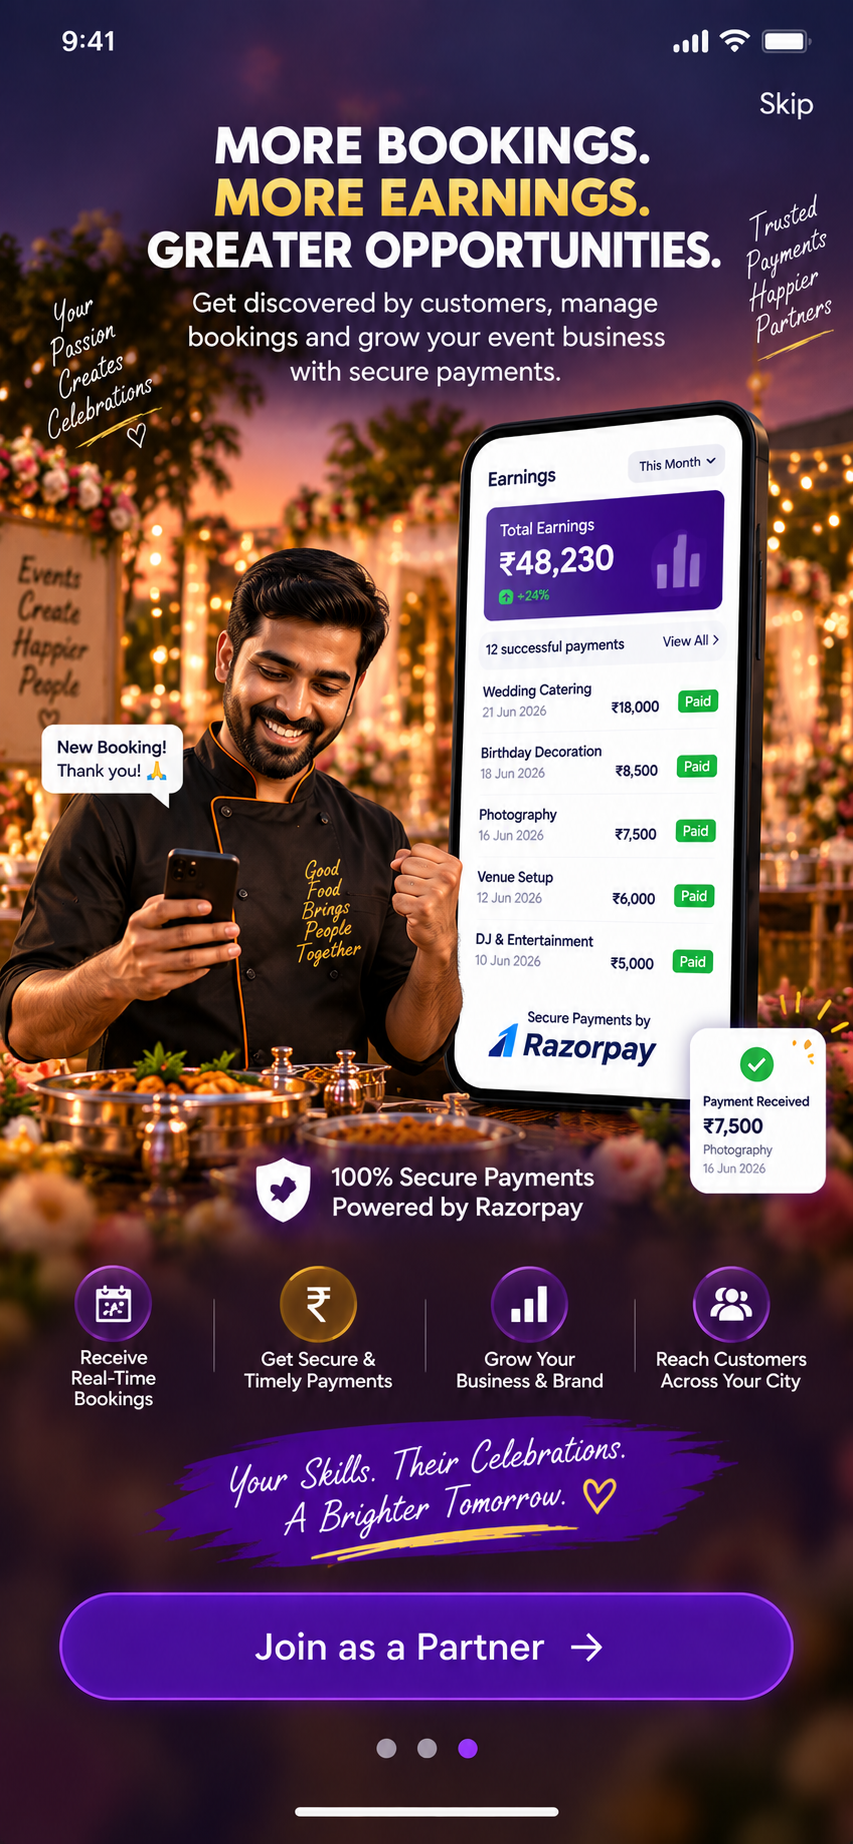
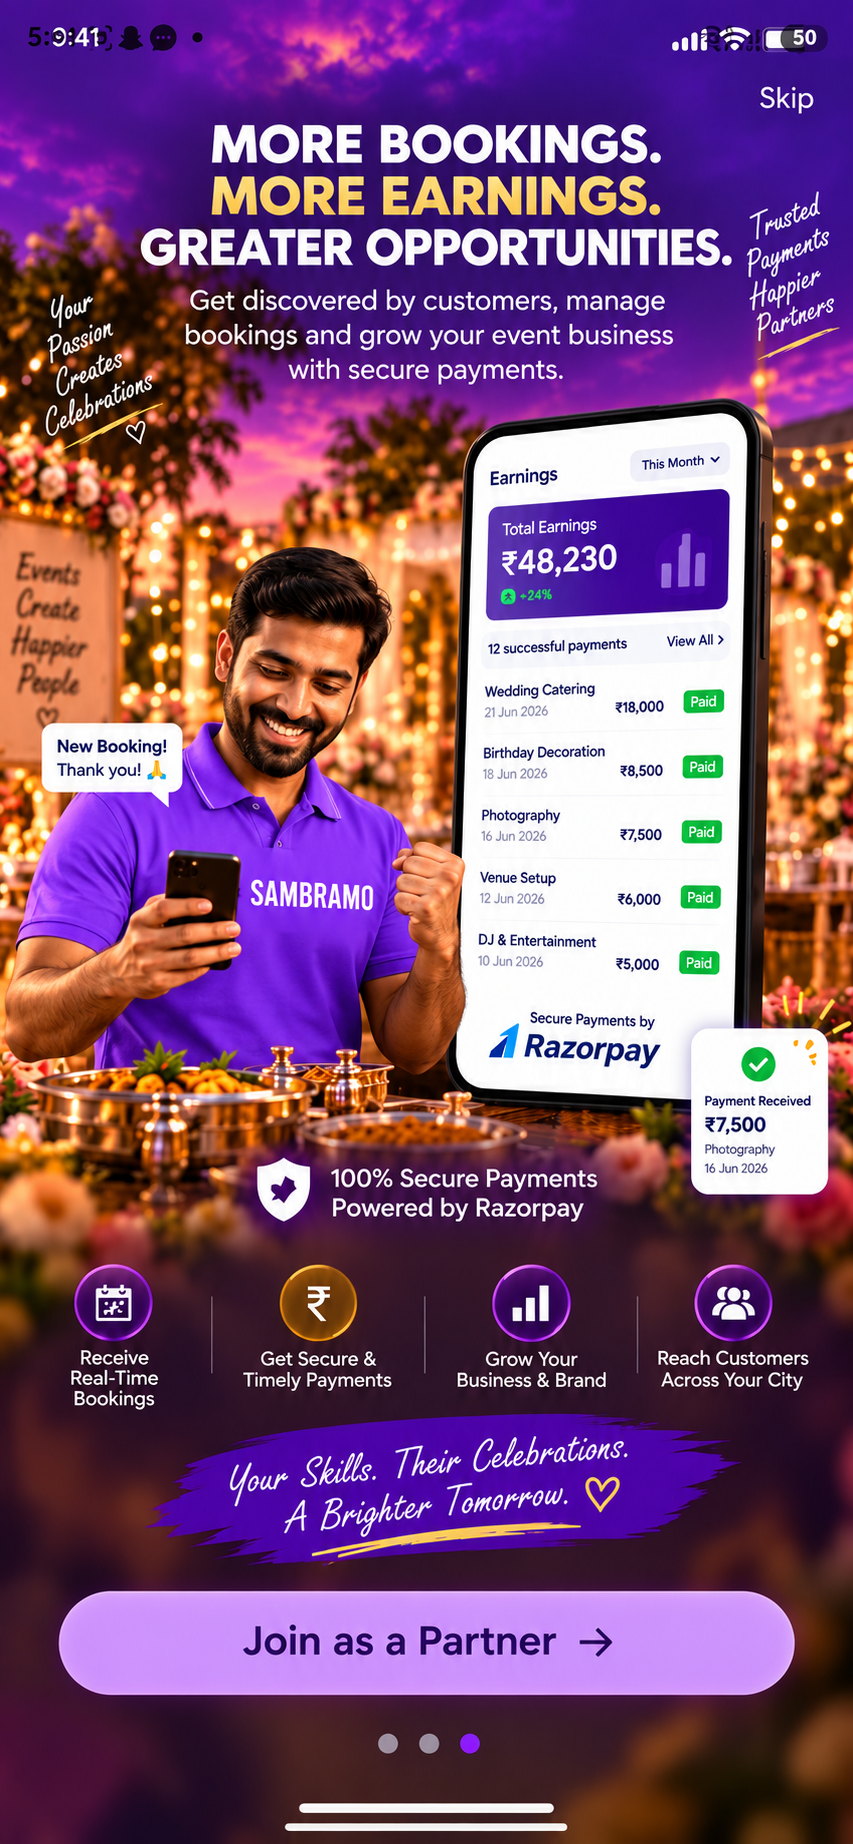
Partner intro: the new amethyst artwork, with tap areas measured to it
The three regenerated cards are in — light amethyst T-shirts with the
SAMBRAMO wordmark, the sky moved from navy dusk to royal amethyst. All
three are 853x1844, the same size as before.

THE BUTTONS HAD MOVED. The app lays an invisible tap area over each
painted button. Those were one fixed rectangle for all three cards,
correct while the old artwork put every button in the same place. The
regenerated cards did not, and measured against that rectangle:

    card 1   painted y 1515-1624   30% of the button tappable
    card 2   painted y 1559-1662   69%
    card 3   painted y 1592-1693   100%

So on card 1, tapping the top of "Join as a Partner" did nothing. Each
card now carries the position measured from its own pixels, with slack,
and a headless check confirms the whole painted button is tappable on
all three. Re-measure if the artwork changes again.

CARD 3 HAD A PHONE STATUS BAR PAINTED INTO IT. The image model copied
the screenshot it was given, status bar and all: "5:9:41", app icons,
signal, battery 50. On a phone that sits beneath the real status bar —
two clocks. It also painted a "Skip" that cards 1 and 2 do not have.

Measured the text bands at the top of the source (fake bar 28-49,
painted Skip 87-107, headline 125-162), and the renderer now covers
0-112 with clean sky from row 116 as it writes the webp. The master PNG
is left exactly as supplied. Two rounds to get it right, both caught by
photographing the output: a single stretched row streaked where it
[…]

diff --git a/src/pages/partner/PartnerOnboarding.jsx b/src/pages/partner/PartnerOnboarding.jsx
@@ -44,6 +44,10 @@ const CARDS = [
        + 'decorations and florists, beauty and wellness, logistics and transport, '
        + 'venues and equipment, priests and traditional services.',
     cta: 'Join as a Partner',
+    /* Measured from the artwork: the painted button is y 1515-1624 of
+       1844. The old fixed tap area covered 30% of it — tap the top of
+       the button and nothing happened. */
+    hit: { top: 81.6, height: 7.0 },
   },
   {
     id: 'services',
@@ -51,6 +55,7 @@ const CARDS = [
     alt: 'Every event needs experts like you. List your services and get bookings '
        + 'across multiple event categories.',
     cta: 'See How It Works',
+    hit: { top: 84.0, height: 6.7 },   // painted y 1559-1662: the old area covered 69%
   },
   {
     id: 'earnings',
@@ -58,6 +63,7 @@ const CARDS = [
     alt: 'More bookings, more earnings, greater opportunities. Get discovered by '
        + 'customers, manage bookings and grow your event business with secure payments.',
     cta: 'Join as a Partner',
+    hit: { top: 85.8, height: 6.6 },   // painted y 1592-1693
   },
 ]
 
@@ -83,7 +89,7 @@ const SIGN_IN = '/partner/login'
 
 /* Long enough to read a headline and its line beneath, short enough
    that a partner who is not reading is not kept waiting. */
-const AUTO_ADVANCE_MS = 4200
+const AUTO_ADVANCE_MS = 3500
 
 export default function PartnerOnboarding() {
   const navigate = useNavigate()
@@ -177,42 +183,50 @@ export default function PartnerOnboarding() {
               type="button"
               onClick={() => onCta(i)}
               aria-label={c.cta === 'See How It Works' ? `${c.cta}, next card` : `${c.cta}, continue to sign in`}
-              className="absolute inset-x-[6%] bottom-[6.5%] h-[7.2%] rounded-full
+              /* ── Each card's own button, not one shared position ─────
+                 The tap areas were one fixed rectangle for all three
+                 cards, which was right while the artwork put every
+                 button in the same place. The regenerated cards did not:
+                 measured against that rectangle, card 1's button was
+                 only 30% tappable and card 2's 69%. Each card now
+                 carries the position measured from its own pixels, with
+                 10px of slack either side, so the whole painted button
+                 works. Re-measure if the artwork changes. */
+              style={{ top: `${c.hit.top}%`, height: `${c.hit.height}%` }}
+              className="absolute inset-x-[5.5%] rounded-full
                          focus-visible:outline focus-visible:outline-2 focus-visible:outline-white"
             />
 
-            {/* Over the painted "Skip". Sits inside the safe area so it
-                is never under the status bar on a notched device. */}
-            <button
-              type="button"
-              /* Skip means "skip the introduction", so it goes where Join
-                 goes rather than into a location prompt the partner never
-                 asked for. */
-              onClick={() => navigate(SIGN_IN)}
-              aria-label="Skip the introduction and continue to sign in"
-              className="safe-top absolute right-0 top-0 h-[7%] w-[30%]
-                         focus-visible:outline focus-visible:outline-2 focus-visible:outline-white"
-            />
           </section>
         ))}
       </div>
 
-      {/* ── How long until the next card ───────────────────────────────
-          The artwork paints its own dots, so this is not pagination — it
-          is the timer, a hairline at the very top that fills while a card
-          waits to move on. Without it the advance arrives as a surprise.
-          Nothing renders on the last card, which does not move. */}
-      {!reduced && index < CARDS.length - 1 && (
-        <div className="safe-top pointer-events-none absolute inset-x-0 top-0 z-10 px-4">
-          <div className="mt-1 h-[3px] overflow-hidden rounded-full bg-white/20">
-            <div
-              key={index}
-              className="partner-intro-timer h-full rounded-full bg-white"
-              style={{ animationDuration: `${AUTO_ADVANCE_MS}ms`, animationPlayState: held ? 'paused' : 'running' }}
-            />
-          </div>
-        </div>
-      )}
+      {/* ── One Skip, drawn by the app, on every card ─────────────────
+          The regenerated artwork paints "Skip" on card 3 only, so it
+          could no longer be trusted to show one. This is real text,
+          outside the rail so it does not scroll away, inside the safe
+          area so it is never under the status bar. Card 3's painted
+          Skip is removed from the image when it is rendered — see
+          scripts/render-onboarding-cards.mjs — so there are never two.
+
+          Skip means "skip the introduction", so it goes where Join goes
+          rather than into a location prompt nobody asked for.
+
+          The timer line that used to sit here is gone: the artwork
+          already paints the position dots, and a second indicator at
+          the top was one more thing moving on a screen that should be
+          about the picture. */}
+      <div className="safe-top pointer-events-none absolute inset-x-0 top-0 z-10 flex justify-end px-4">
+        <button
+          type="button"
+          onClick={() => navigate(SIGN_IN)}
+          aria-label="Skip the introduction and continue to sign in"
+          className="pointer-events-auto mt-2 rounded-full bg-black/20 px-4 py-1.5 text-[15px] font-semibold text-white backdrop-blur-sm
+                     focus-visible:outline focus-visible:outline-2 focus-visible:outline-white"
+        >
+          Skip
+        </button>
+      </div>
     </div>
   )
 }

diff --git a/scripts/scenes/partner-intro-hit.assert.js b/scripts/scenes/partner-intro-hit.assert.js
@@ -1,0 +1,26 @@
+/* Does every card's invisible tap area cover its whole painted button?
+   Painted positions measured from the supplied 853x1844 artwork. */
+const wait = ms => new Promise(r => setTimeout(r, ms))
+for (let i = 0; i < 60; i++) { if (document.querySelector('.native-rail')) break; await wait(150) }
+await wait(400)
+const PAINTED = [[1515, 1624], [1559, 1662], [1592, 1693]]
+const slides = [...document.querySelectorAll('.native-slide')]
+const out = []
+slides.forEach((sl, i) => {
+  const r = sl.getBoundingClientRect()
+  const btn = sl.querySelector('button[aria-label]')
+  const b = btn.getBoundingClientRect()
+  const top = r.top + r.height * PAINTED[i][0] / 1844
+  const bot = r.top + r.height * PAINTED[i][1] / 1844
+  const covered = Math.max(0, Math.min(b.bottom, bot) - Math.max(b.top, top)) / (bot - top)
+  out.push({ name: `card ${i + 1}: the whole painted button is tappable`, ok: covered >= 0.999,
+    detail: `${(covered * 100).toFixed(0)}% covered (tap ${b.top.toFixed(0)}-${b.bottom.toFixed(0)}, painted ${top.toFixed(0)}-${bot.toFixed(0)})` })
+})
+const skips = [...document.querySelectorAll('button')].filter(b => b.textContent.trim() === 'Skip')
+out.push({ name: 'exactly one visible Skip, drawn by the app', ok: skips.length === 1, detail: `${skips.length} found` })
+out.push({ name: 'the timer line is gone', ok: !document.querySelector('.partner-intro-timer'), detail: 'still present' })
+const rail = document.querySelector('.native-rail')
+const at = () => Math.round(rail.scrollLeft / (rail.clientWidth || 1))
+const t0 = at(); await wait(4000)
+out.push({ name: 'advances after 3.5s', ok: at() === t0 + 1, detail: `card ${t0} -> ${at()}` })
+return out

diff --git a/scripts/scenes/card3-top.jsx b/scripts/scenes/card3-top.jsx
@@ -1,0 +1,10 @@
+/** The top of the rendered card 3, to confirm the fake status bar is gone. */
+import React from 'react'
+export default function Scene() {
+  return (
+    <div style={{ width: 853, height: 300, overflow: 'hidden', background: '#000' }}>
+      <img src="/onboarding/card-3-earnings-853.webp" alt="" style={{ width: 853, display: 'block' }} />
+      <p data-ready style={{ position: 'absolute', font: '700 9px system-ui', color: '#fff' }}> </p>
+    </div>
+  )
+}
